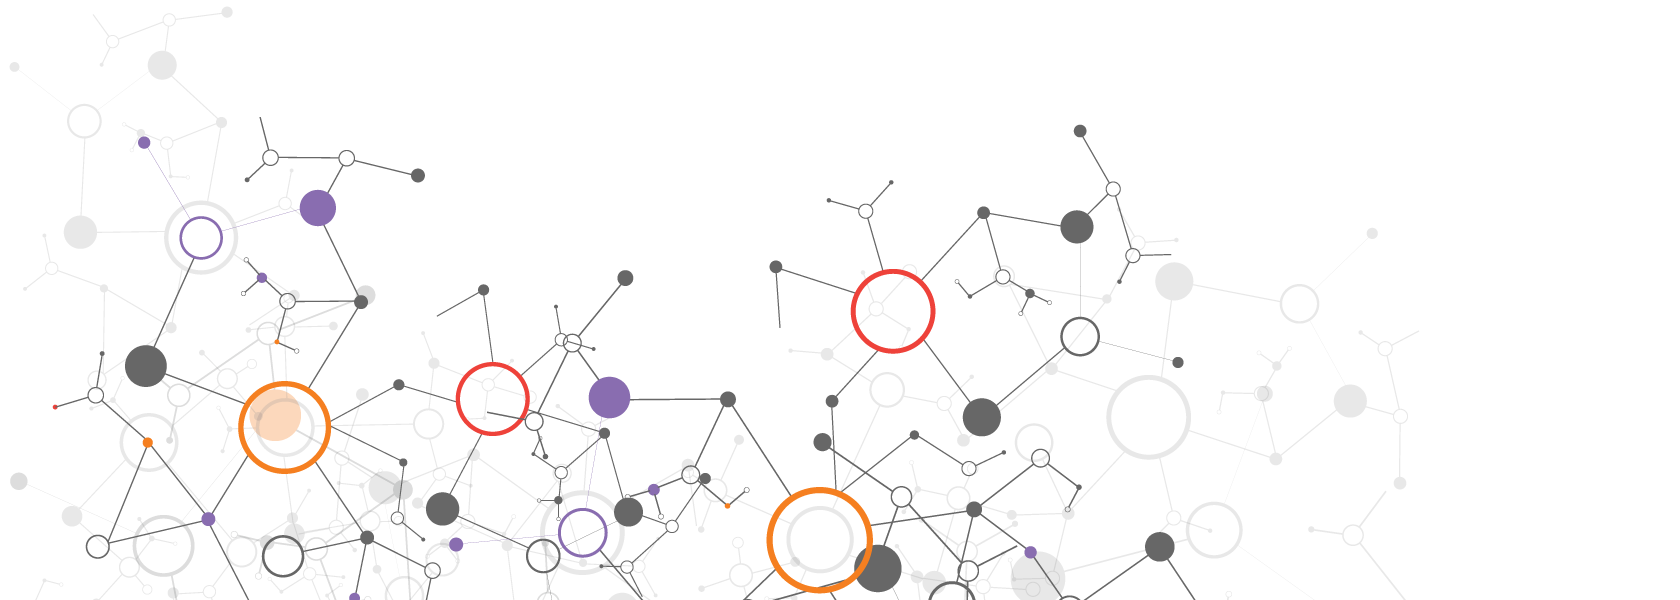
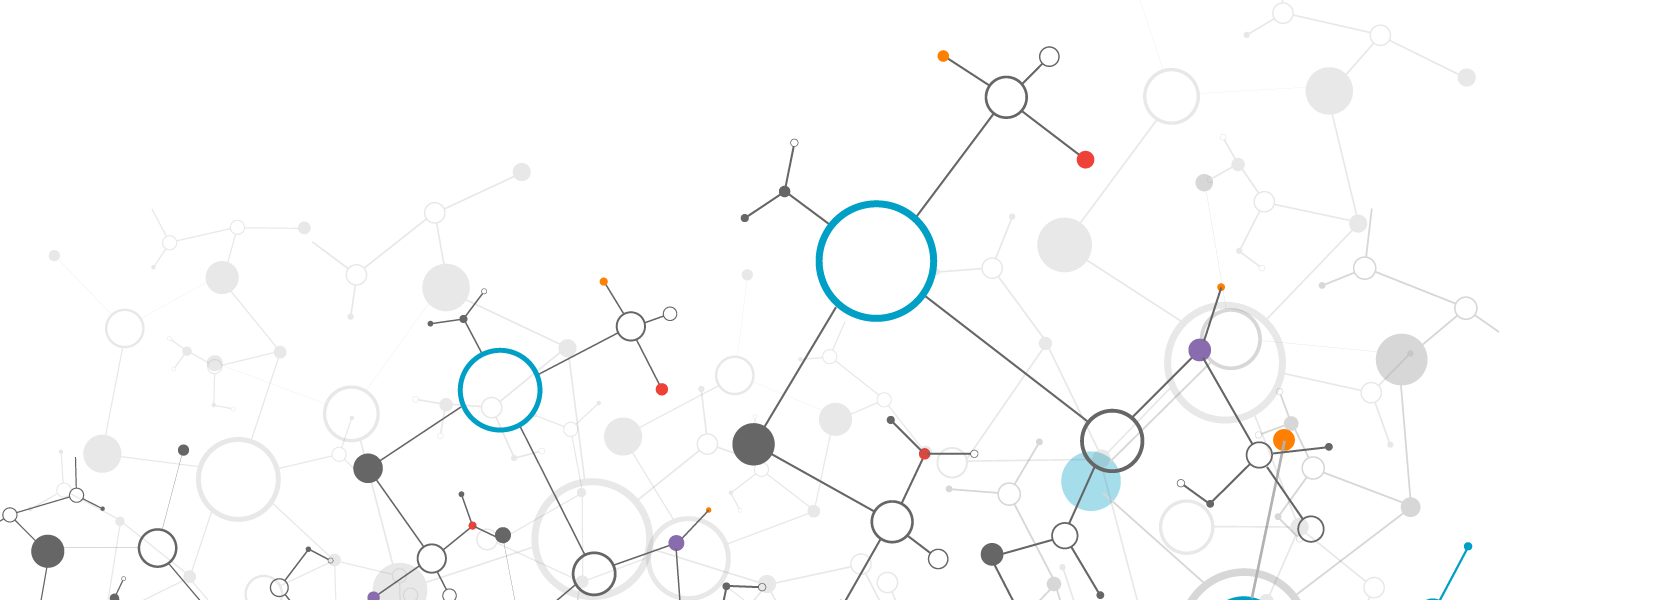
Change data stack and network image to blue color palette

diff --git a/styles/home_page.css b/styles/home_page.css
@@ -126,11 +126,11 @@ body #modules-section div:nth-child(4), body #modules-section div:nth-child(5), 
 body .full-width-button {
   width: 800px; }
 body #data-stack {
-  margin: 30px 0; }
+  margin: 30px 0 -20px 0; }
   body #data-stack img {
-    width: 650px; }
+    width: 600px; }
 body #network-image {
-  height: 400px;
+  height: 500px;
   overflow: hidden; }
 body footer {
   padding: 40px; }

diff --git a/styles/home_page.scss b/styles/home_page.scss
@@ -125,14 +125,14 @@ body{
 	}
 
 	#data-stack{
-		margin: 30px 0;
+		margin: 30px 0 -20px 0;
 		img{
-			width: 650px;
+			width: 600px;
 		}
 	}
 
 	#network-image{
-		height: 400px;
+		height: 500px;
 		overflow: hidden;
 	}
 

diff --git a/index.php b/index.php
@@ -92,7 +92,7 @@
 	</a>
 
 	<div id="data-stack">
-		<img src="images/home_page/data-stack-v6_5.png">
+		<img src="images/home_page/data-stack-v6_7.png">
 	</div>
 
 	<div id="network-image">
@@ -100,7 +100,10 @@
 	</div>
 
 	<!-- Google Map Embed Code -->
-	<div id="map-canvas"/></div>
+	<iframe width="1680" height="400" frameborder="0" scrolling="no" marginheight="0" 
+	marginwidth="0" style="background-color:rgb(229,227,223);"
+	src="https://maps.google.com/maps/ms?msa=0&amp;msid=203123961827304078823.0004f07e9f20c4403cc04&amp;
+	ie=UTF8&amp;t=h&amp;ll=37.794322,-122.381859&amp;spn=0.023739,0.144196&amp;z=14&amp;output=embed"></iframe>
 
 	<footer>
 		<p>donec &bull; sapien &bull; erat &bull; lorem &bull; ipsum</p>
